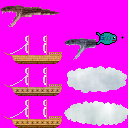
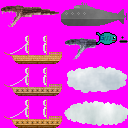
Edited

Changed region(s): [[0.4688, 0.0, 1.0, 0.2188], [0.9375, 0.3125, 1.0, 0.3438]]

diff --git a/src/com/breakfastsoftware/kraken/entities/Submarine.java b/src/com/breakfastsoftware/kraken/entities/Submarine.java
@@ -2,19 +2,25 @@ package com.breakfastsoftware.kraken.entities;
 
 import com.breakfastsoftware.kraken.entities.core.Entity;
 import com.breakfastsoftware.kraken.entities.core.EntityManager;
+import com.breakfastsoftware.kraken.res.visuals.Images;
 import com.breakfastsoftware.kraken.res.visuals.Sprite;
 import com.breakfastsoftware.kraken.util.Calculations;
+
+/**
+ * Created by Gasquakee on 8/23/2015.
+ */
 
 public class Submarine extends Entity {
 
 	private Player player;
 	private EntityManager em;
-	private boolean inWater, pursuePlayerX;
 	private String retreat = "NO";
+	private boolean inWater, pursuePlayerX;
 	private int bulletTime = 60;
-	
+
 	public Submarine(Player player, EntityManager em) {
-		super(600, 600, Sprite.FRIGATE1);
+		super((int)(Math.random() * Images.BACKGROUND.getImage().getWidth()),
+				(int)(Math.random() * ((Images.BACKGROUND.getImage().getHeight()-400)))+400, Sprite.SUBMARINE);
 		this.player = player;
 		this.em = em;
 	}
@@ -23,10 +29,10 @@ public class Submarine extends Entity {
 		if (Calculations.getDistanceX(x, player.getX()) < 120 && Calculations.getDistanceY(y, player.getY()) < 100) {
 			pursuePlayerX = false;
 			bulletTime--;
-        	if (bulletTime <= 0) {
-        		em.addBullet(new Bullet(x + 30, y + 30, player, em));
-        		bulletTime = 60;
-        	}
+			if (bulletTime <= 0) {
+				em.addBullet(new Bullet(x + 30, y + 30, player, em, false));
+				bulletTime = 60;
+			}
 		} else {
 			pursuePlayerX = true;
 			retreat = "NO";
@@ -62,17 +68,29 @@ public class Submarine extends Entity {
 			}
 		}
 		if (retreat == "LEFT") {
-			move(-2, dy);
+			dx = -4;
 			direction = LEFT;
 		} else if (retreat == "RIGHT") {
-			move(2, dy);
+			dx = 4;
 			direction = RIGHT;
 		} else if (retreat == "NO") {
+			dx = 0;
+			dy = 0;
 			if (player.getX() > x) {
 				direction = RIGHT;
 			} else {
 				direction = LEFT;
 			}
+		}
+		if (x < -100) {
+			pursuePlayerX = true;
+			retreat = "NO";
+			dx = 0; dy = 0;
+		}
+		if (x > 1700) {
+			pursuePlayerX = true;
+			retreat = "NO";
+			dx = 0; dy = 0;
 		}
 		move(dx, dy);
 	}

diff --git a/src/com/breakfastsoftware/kraken/res/visuals/Sprite.java b/src/com/breakfastsoftware/kraken/res/visuals/Sprite.java
@@ -14,7 +14,9 @@ public class Sprite {
     PLAYERTAIL = new Sprite(SpriteSheet.ENTITIES, 50, 11, 9, 4),
     FRIGATE1 = new Sprite(SpriteSheet.ENTITIES, 0, 64, 64, 32),
     FRIGATE2 = new Sprite(SpriteSheet.ENTITIES, 0, 96, 64, 32),
+    SUBMARINE = new Sprite(SpriteSheet.ENTITIES, 61, 2, 66, 24),
     BULLET = new Sprite(SpriteSheet.ENTITIES, 121, 36, 3, 3),
+    MISSILE= new Sprite(SpriteSheet.ENTITIES, 119, 40, 9, 3),
     FISH = new Sprite(SpriteSheet.ENTITIES, 96, 32, 21, 13);
 
     public final int WIDTH, HEIGHT, PIXELS[];

diff --git a/src/com/breakfastsoftware/kraken/entities/Bullet.java b/src/com/breakfastsoftware/kraken/entities/Bullet.java
@@ -12,8 +12,8 @@ public class Bullet extends Entity {
 	private int timer;
 	private int initX, initY;
 	
-	public Bullet(int x, int y, Player player, EntityManager em) {
-		super(x, y, Sprite.BULLET);
+	public Bullet(int x, int y, Player player, EntityManager em, boolean canon) {
+		super(x, y, (canon) ? Sprite.BULLET : Sprite.MISSILE);
 		this.em = em;
 		int diffX = player.getX() + player.getWidth() / 2 - x;
 		int diffY = player.getY() + player.getHeight() / 2 - y;

diff --git a/src/com/breakfastsoftware/kraken/entities/Ship.java b/src/com/breakfastsoftware/kraken/entities/Ship.java
@@ -38,7 +38,7 @@ public class Ship extends Entity {
         if (Calculations.getDistanceX(player.getX(), x) < 200 && Calculations.getDistanceY(player.getY(), y) < 150) {
         	bulletTime--;
         	if (bulletTime <= 0) {
-        		em.addBullet(new Bullet(x + 30, y + 30, player, em));
+        		em.addBullet(new Bullet(x + 30, y + 30, player, em, true));
         		bulletTime = 50;
         	}
         }
